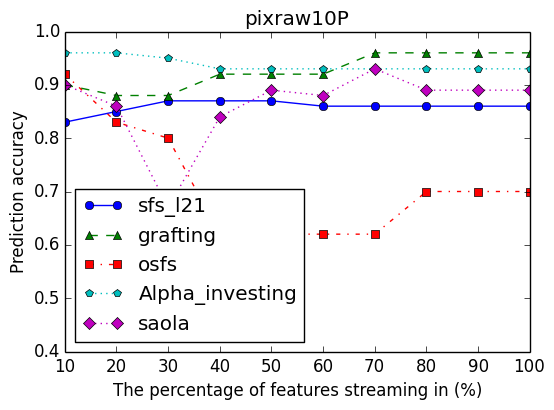
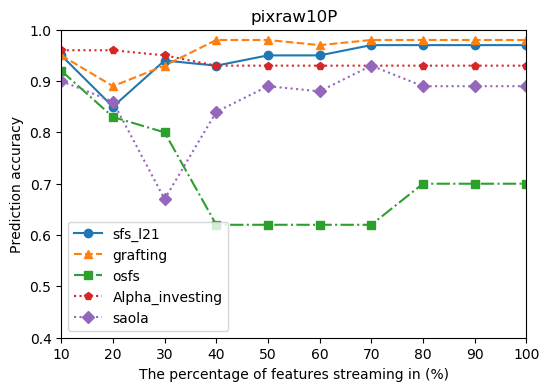
run classifying faceImage\dataset and draw png at time

Changed region(s): [[0.0, 0.0, 0.9909, 0.9821], [0.7122, 0.491, 0.7432, 0.5217]]

diff --git a/datas/classifying.py b/datas/classifying.py
@@ -99,7 +99,7 @@ def run_all_osfs_or_saola(fname, dataset_type, alg_name):
             f_streaming.write("origin data: "+'\n')
 
             f_streaming.write("size of data matrix: "+str(X.shape)+'\n')
-            scores = run_cross_validation(X_fs, Y)
+            scores = run_cross_validation(X, Y)
             # scores = model_selection.cross_val_score(clf, X, Y, cv=5, scoring="accuracy")
             f_streaming.write("cross validation accuracy: "+str(scores.mean())+'\n')
 
